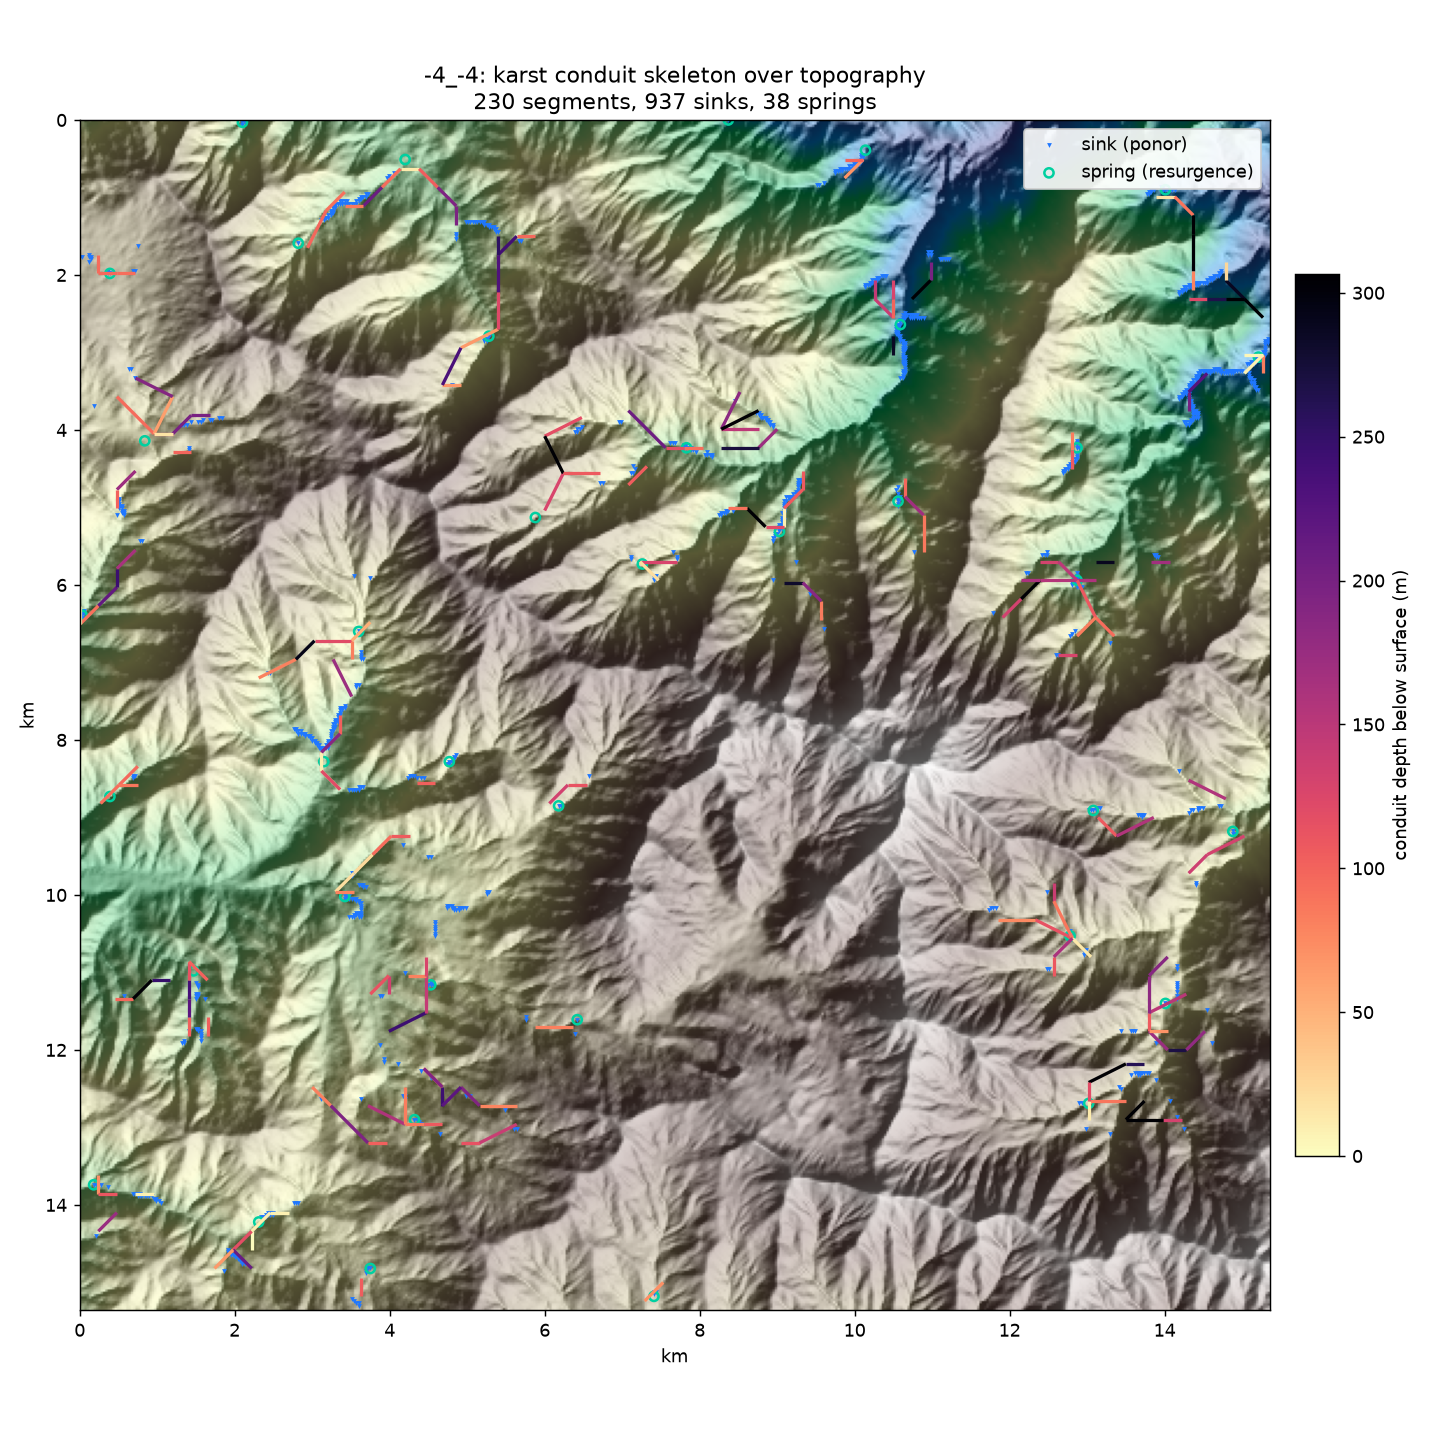
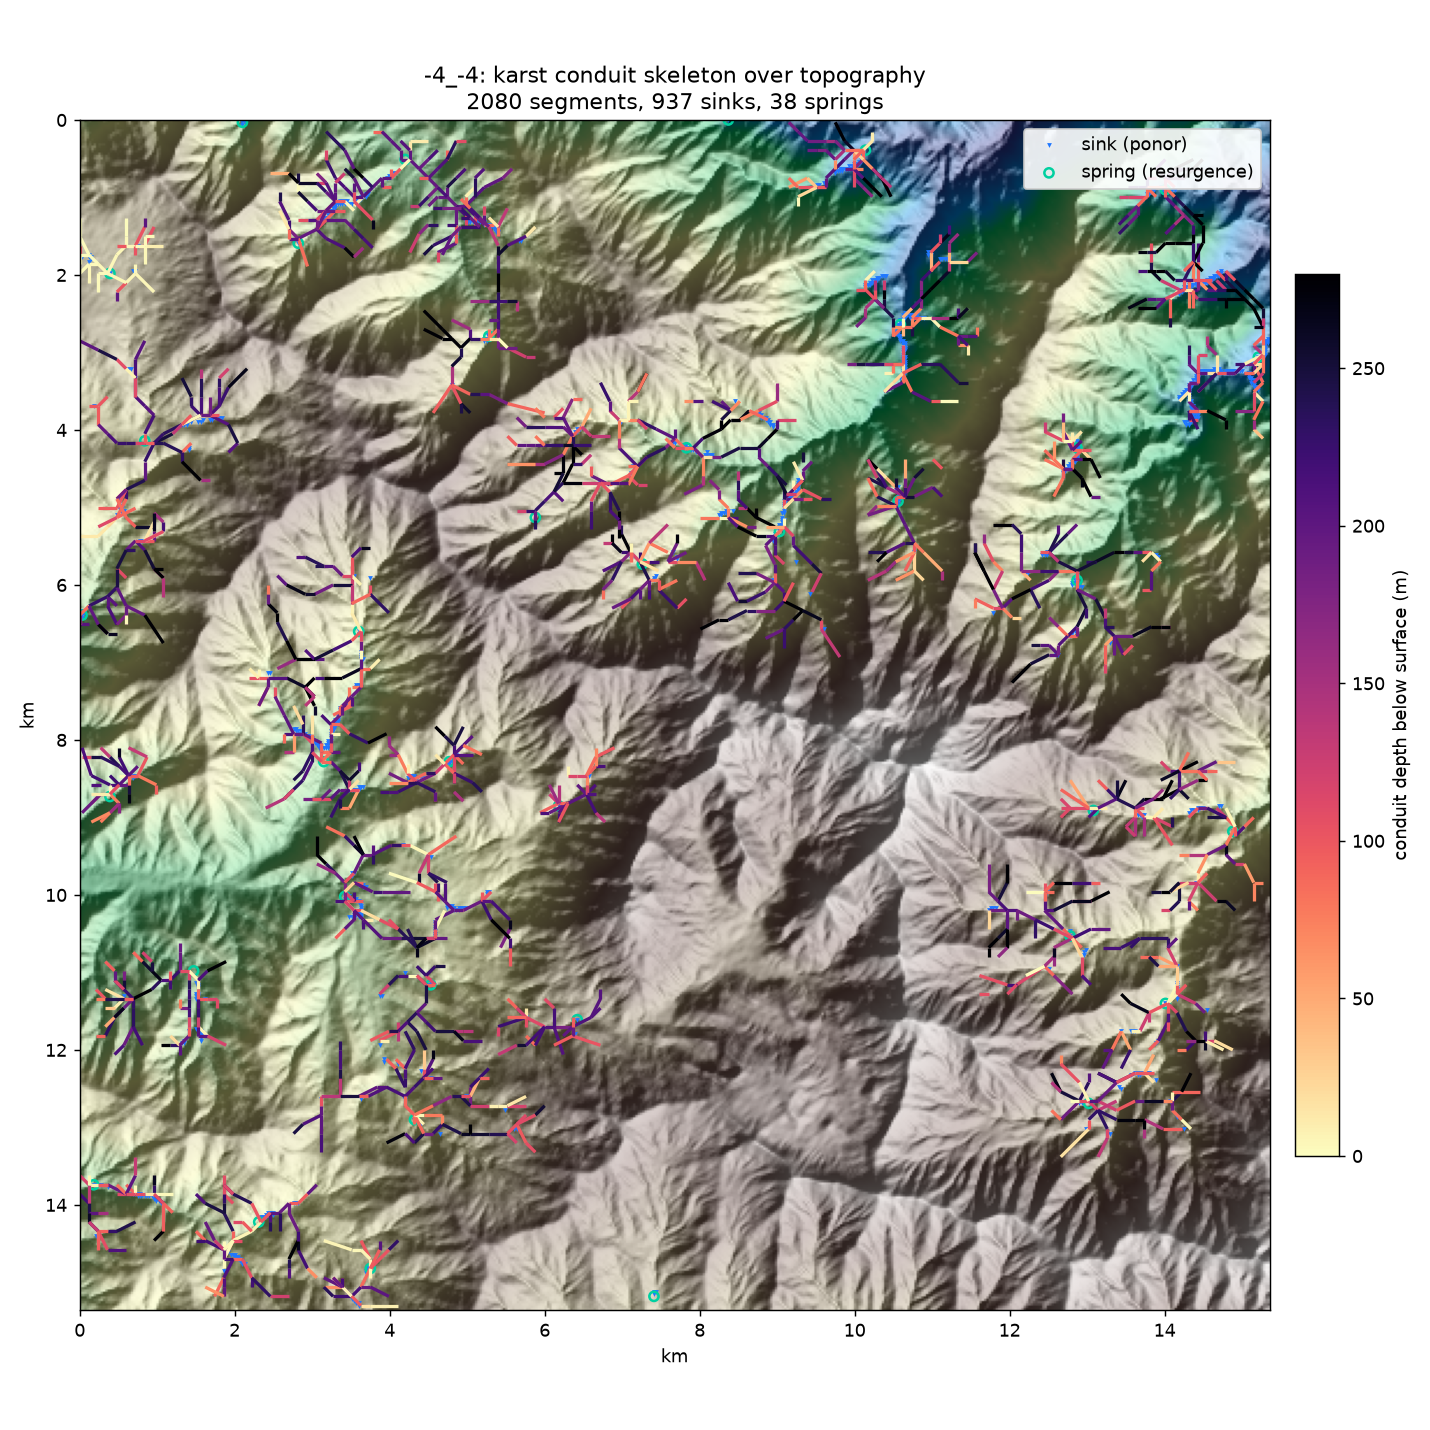
karst: amplification was the missing piece -- 0.34 -> 1.90 km/km^2
The previous commit's diagnosis was right about the symptom ("fragments, not
systems") and wrong about the cause. Two findings, in order.

THE TWO LEVERS INTERACT, AND THE SWEEP PROVES IT. Node spacing x gamma, swept
jointly (density km/km^2): 225 m gives 0.543/0.343/0.254 at gamma
1.05/2.0/4.0; 120 m gives 0.656/0.496/0.377; 75 m gives 0.624/0.553/0.459;
50 m gives 0.569/0.502/0.415. Density peaks at 120 m spacing, NOT the finest --
50 m produces more than twice the segments (1,697 vs 720) and LESS passage,
because the extra segments are short and the prune eats them. Sweeping either
lever alone picks the wrong value, which is the trap backlog section 0.6
already records for GPUCullMergeGap/GPUCullMaxRanges.

SINK-TO-SPRING SHORTEST PATHS GIVE THE TRUNK AND NOTHING ELSE, and that is what
"fragments" actually was. A real cave is mostly not trunk: it is tributaries,
blind alleys and abandoned loops, which is why the reference scenes carry
explicit Waypoint and Deadend key points -- their "superimposed" scene is 1 sink
and 2 springs against ELEVEN deadends, and the spongework scene ~50. The paper's
Amplify step was in my research notes and not in the code. Implemented here by
routing extra corridor nodes to the nearest node ALREADY on the skeleton, which
is what makes a branch a branch rather than a second trunk:

  dead-ends/system   segments   density   mean segment   p90 depth
                 0        720     0.656          215 m       250 m
[…]

diff --git a/terrain-service/tools/karst_network.py b/terrain-service/tools/karst_network.py
@@ -222,7 +222,7 @@ def edge_costs(nodes, idx_a, idx_b, elev, head, incept, coher, theta, log2acc):
 
 
 def build_system(nodes, elev, head, incept, coher, theta, log2acc,
-                 sink_ids, spring_id, gamma):
+                 sink_ids, spring_id, gamma, deadends=0, rng=None):
     """kNN graph, Dijkstra from each sink to the spring, gamma-skeleton prune."""
     if len(nodes) < 8:
         return []
@@ -249,6 +249,40 @@ def build_system(nodes, elev, head, incept, coher, theta, log2acc,
         if cur == spring_id:
             p.append(spring_id)
             paths.append(p)
+
+    # AMPLIFICATION -- the paper's `Amplify`, and the step whose absence is why
+    # a first implementation reads as fragments rather than as a cave.
+    #
+    # Sink-to-spring shortest paths give the TRUNK and nothing else. A real
+    # cave is mostly not trunk: it is tributaries, blind alleys and abandoned
+    # loops, which is why the reference scenes carry explicit Waypoint and
+    # Deadend key points (their "superimposed" scene is 1 sink and 2 springs
+    # against 2 waypoints and ELEVEN deadends; the spongework scene is ~50).
+    # So: pick extra nodes in the corridor and route each to the nearest node
+    # ALREADY on the skeleton, which is what makes a branch a branch rather
+    # than a second trunk.
+    if deadends > 0 and paths:
+        on_skeleton = sorted({n for p in paths for n in p})
+        if len(on_skeleton) >= 2:
+            for _ in range(deadends):
+                cand = int(rng.integers(0, len(nodes)))
+                if cand in on_skeleton:
+                    continue
+                d2, pred2 = dijkstra(g, directed=False, indices=cand,
+                                     return_predecessors=True)
+                reach = [(d2[t], t) for t in on_skeleton if np.isfinite(d2[t])]
+                if not reach:
+                    continue
+                _, tgt = min(reach)
+                p2, cur = [], tgt
+                guard = 0
+                while cur != cand and cur >= 0 and guard < 10000:
+                    p2.append(cur)
+                    cur = pred2[cur]
+                    guard += 1
+                if cur == cand:
+                    p2.append(cand)
+                    paths.append(p2)
 
     # Gamma-skeleton prune, on the REDUCED skeleton (the union of the paths),
     # never on the sampling graph -- that is the difference between milliseconds
@@ -287,16 +321,32 @@ def build_system(nodes, elev, head, incept, coher, theta, log2acc,
 
 
 def main() -> int:
+    # NODE SPACING AND GAMMA INTERACT AND MUST BE SWEPT TOGETHER. Spacing sets
+    # how many candidate routes exist; gamma sets how many survive pruning.
+    # Swept alone, the winning value of each can measure WORSE than the loser --
+    # the same trap docs/backlog.md section 0.6 already records for
+    # GPUCullMergeGap and GPUCullMaxRanges. The `global` has to be declared
+    # before argparse reads these names for its defaults.
+    global NODE_SPACING_M, NEIGHBOURS
+
     ap = argparse.ArgumentParser(description=__doc__,
                                  formatter_class=argparse.RawDescriptionHelpFormatter)
     ap.add_argument("fields", type=pathlib.Path)
     ap.add_argument("--gamma", type=float, default=2.0)
     ap.add_argument("--max-systems", type=int, default=60)
+    ap.add_argument("--node-spacing-m", type=float, default=NODE_SPACING_M,
+                    help="corridor sample spacing; sweep TOGETHER with --gamma")
+    ap.add_argument("--neighbours", type=int, default=NEIGHBOURS)
+    ap.add_argument("--deadends", type=int, default=0,
+                    help="amplification key points per system (paper's Amplify)")
     ap.add_argument("--spring-sep-m", type=float, default=1500.0,
                     help="minimum separation between resurgences (see suppress_springs)")
     ap.add_argument("--out", type=pathlib.Path, default=None)
     args = ap.parse_args()
     out = args.out or args.fields.parent
+
+    NODE_SPACING_M = args.node_spacing_m
+    NEIGHBOURS = args.neighbours
 
     t0 = time.time()
     f = load_fields(args.fields)
@@ -333,7 +383,8 @@ def main() -> int:
             _, i = tree.query(q)
             sink_ids.append(int(i))
         segs = build_system(nodes, elev, head, incept, coher, theta, log2acc,
-                            sink_ids, int(spring_id), args.gamma)
+                            sink_ids, int(spring_id), args.gamma,
+                            deadends=args.deadends, rng=rng)
         if not segs:
             failed += 1
             continue
@@ -349,7 +400,9 @@ def main() -> int:
     total_km = sum(lengths) / 1000.0
     area_km2 = (elev.shape[0] * GRID_M / 1000.0) * (elev.shape[1] * GRID_M / 1000.0)
     stats = {
-        "gamma": args.gamma,
+        "gamma": args.gamma, "deadends": args.deadends,
+        "node_spacing_m": NODE_SPACING_M, "neighbours": NEIGHBOURS,
+        "spring_sep_m": args.spring_sep_m,
         "systems_total": len(systems), "systems_routed": routed,
         "systems_failed": failed,
         "segments": len(all_segments),

diff --git a/docs/karst-prototype-status-2026-08-19.md b/docs/karst-prototype-status-2026-08-19.md
@@ -1,8 +1,10 @@
 # Karst Phase 0 prototype — what works, what does not, 2026-08-19
 
-Three tools, end to end, on real baked tiles. **The field layer works. The
-routing layer does not yet produce karst.** Written before the next session so
-nobody re-derives the same three days.
+Three tools, end to end, on real baked tiles. **The field layer works, and after
+amplification the routing layer produces branchwork at 1.90 km/km^2 -- inside the
+owner's 5x band.** The sections below are in the order they were found, because
+the first diagnosis was right about the symptom and wrong about the cause, and
+that is the part worth not repeating.
 
 ## Runs end to end
 
@@ -12,7 +14,7 @@ nobody re-derives the same three days.
 | stage | cost | output |
 |---|---|---|
 | fields | 105 s | elevation, water table, inception horizons, fracture fabric, sinks, springs |
-| network | 0.1 s | 36 systems routed, 230 segments, 81 km passage |
+| network | 0.4 s | 35 systems routed, 2,080 segments, 449 km passage |
 | render | 6 s | map over hillshade + three cross-sections |
 
 ## What is right, with evidence
@@ -31,7 +33,61 @@ nobody re-derives the same three days.
   Weak, but the cross-check exists and runs automatically — a stream appearing
   at full discharge from nowhere is what a resurgence *is*.
 
-## What is wrong
+## UPDATE, same day: amplification was the missing piece
+
+**Passage density 0.34 -> 1.90 km/km^2, and the map now reads as branchwork.**
+The diagnosis below ("fragments, not systems") was right about the symptom and
+wrong about the cause. Two things were found, in order.
+
+**1. The two levers interact, and the sweep proves it.** Node spacing and gamma,
+swept jointly at 38 springs (density in km/km^2):
+
+| spacing | gamma 1.05 | gamma 2.0 | gamma 4.0 | mean segment |
+|---|---|---|---|---|
+| 225 m | 0.543 | 0.343 | 0.254 | 338-385 m |
+| **120 m** | **0.656** | 0.496 | 0.377 | 198-215 m |
+| 75 m | 0.624 | 0.553 | 0.459 | 90-94 m |
+| 50 m | 0.569 | 0.502 | 0.415 | 76-79 m |
+
+Density peaks at **120 m spacing, not the finest** -- 50 m gives more than twice
+the segments (1,697 vs 720) and *less* passage, because the extra segments are
+short and the prune eats them. Sweeping either lever alone would have picked the
+wrong value, exactly as backlog section 0.6 records for
+`GPUCullMergeGap`/`GPUCullMaxRanges`.
+
+**2. Sink-to-spring shortest paths give the TRUNK and nothing else.** That is
+what "fragments" actually was. A real cave is mostly not trunk: it is
+tributaries, blind alleys and abandoned loops, which is why the reference
+scenes carry explicit Waypoint and Deadend key points -- their "superimposed"
+scene is 1 sink and 2 springs against **eleven** deadends, and the spongework
+scene ~50. The paper's `Amplify` step was in my research notes and not in the
+code. Implemented (route extra corridor nodes to the nearest node ALREADY on the
+skeleton, which is what makes a branch a branch rather than a second trunk):
+
+| dead-ends/system | segments | density km/km^2 | mean segment | p90 depth |
+|---|---|---|---|---|
+| 0 | 720 | 0.656 | 215 m | 250 m |
+| 15 | 1,596 | **1.467** | 217 m | 257 m |
+| 25 | 2,080 | **1.903** | 217 m | 258 m |
+| 40 | 2,662 | 2.451 | 217 m | 259 m |
+
+Segment length and depth are **unchanged** across that range, which is the check
+that amplification adds branches rather than distorting the geometry.
+
+**Current settings: spacing 120 m, gamma 1.05, 25 dead-ends, spring separation
+1,500 m -> 1.90 km/km^2**, inside the 5x band. `docs/images/karst/` carries the
+map and sections at those settings.
+
+**The owner judges the map, not my reading of it**
+(`voxelsim-owner-judges-screenshots`). What I can say without judging: it is
+dendritic, systems converge on resurgences, and depth shading varies within
+single systems. Two things I would want him to look at specifically -- a large
+unserved region in the centre-right of the tile, which is either a legitimately
+non-karst massif or an artefact of spring suppression, and the "spidery" hubs
+where many short spokes meet one node, which is naive amplification showing
+through and is not how real caves branch.
+
+## What was wrong before amplification
 
 **The network is fragments, not systems.** 230 segments averaging 286 m,
 passage density **0.34 km/km²** — roughly 1× real-world mapped-cave density
@@ -68,13 +124,23 @@ Two causes identified, one fixed:
 
 ## Next, in order
 
-1. Sweep node spacing × gamma together; target ≥1.5 km/km² before judging shape.
-2. Move `suppress_springs` into the field stage once the separation is settled.
-3. Terminal basins contributed **zero** sinks on this tile (all 165 of its
-   basins are overflowing) — run the field stage on a tile that has ponors, or
-   the basin sink path is untested.
-4. Only then the blend question, in C++ (`vxc_karstprobe`) — it is the risk that
-   can kill the project and it cannot be answered here.
+1. **Owner looks at the map and sections** in `docs/images/karst/` and says
+   whether the shape reads. Density is in band; shape is his call.
+2. **Hierarchical amplification.** The current step connects each dead-end to
+   the nearest skeleton node, which makes spidery hubs. Real caves branch
+   hierarchically — a tributary joins a trunk, not a star centre. Weighting the
+   connection toward *downstream* skeleton nodes is the cheap first attempt.
+3. **The unserved region.** A large area of the tile carries no conduits.
+   Establish whether that is a legitimately non-karst massif (deep water table,
+   no springs) or an artefact of spring suppression, before tuning anything else.
+4. Move `suppress_springs` into the field stage now the separation is settled.
+5. **The basin sink path has never run.** Terminal basins contributed zero sinks
+   here — all 165 of this tile's basins are overflowing. Run the field stage on
+   a tile with ponors.
+6. Only then the blend question, in C++ (`vxc_karstprobe`). It is the risk that
+   can kill the project and it cannot be answered from a skeleton.
 
-**Do not show the current map to the owner as a proposal.** It is evidence that
-the pipeline runs, not that the geology reads.
+**What the map is and is not.** It is evidence that the method produces
+karst-shaped networks from this world's own hydrology at a defensible density.
+It is not evidence about how any of it looks as voxels, which is a different
+question with its own probe.
